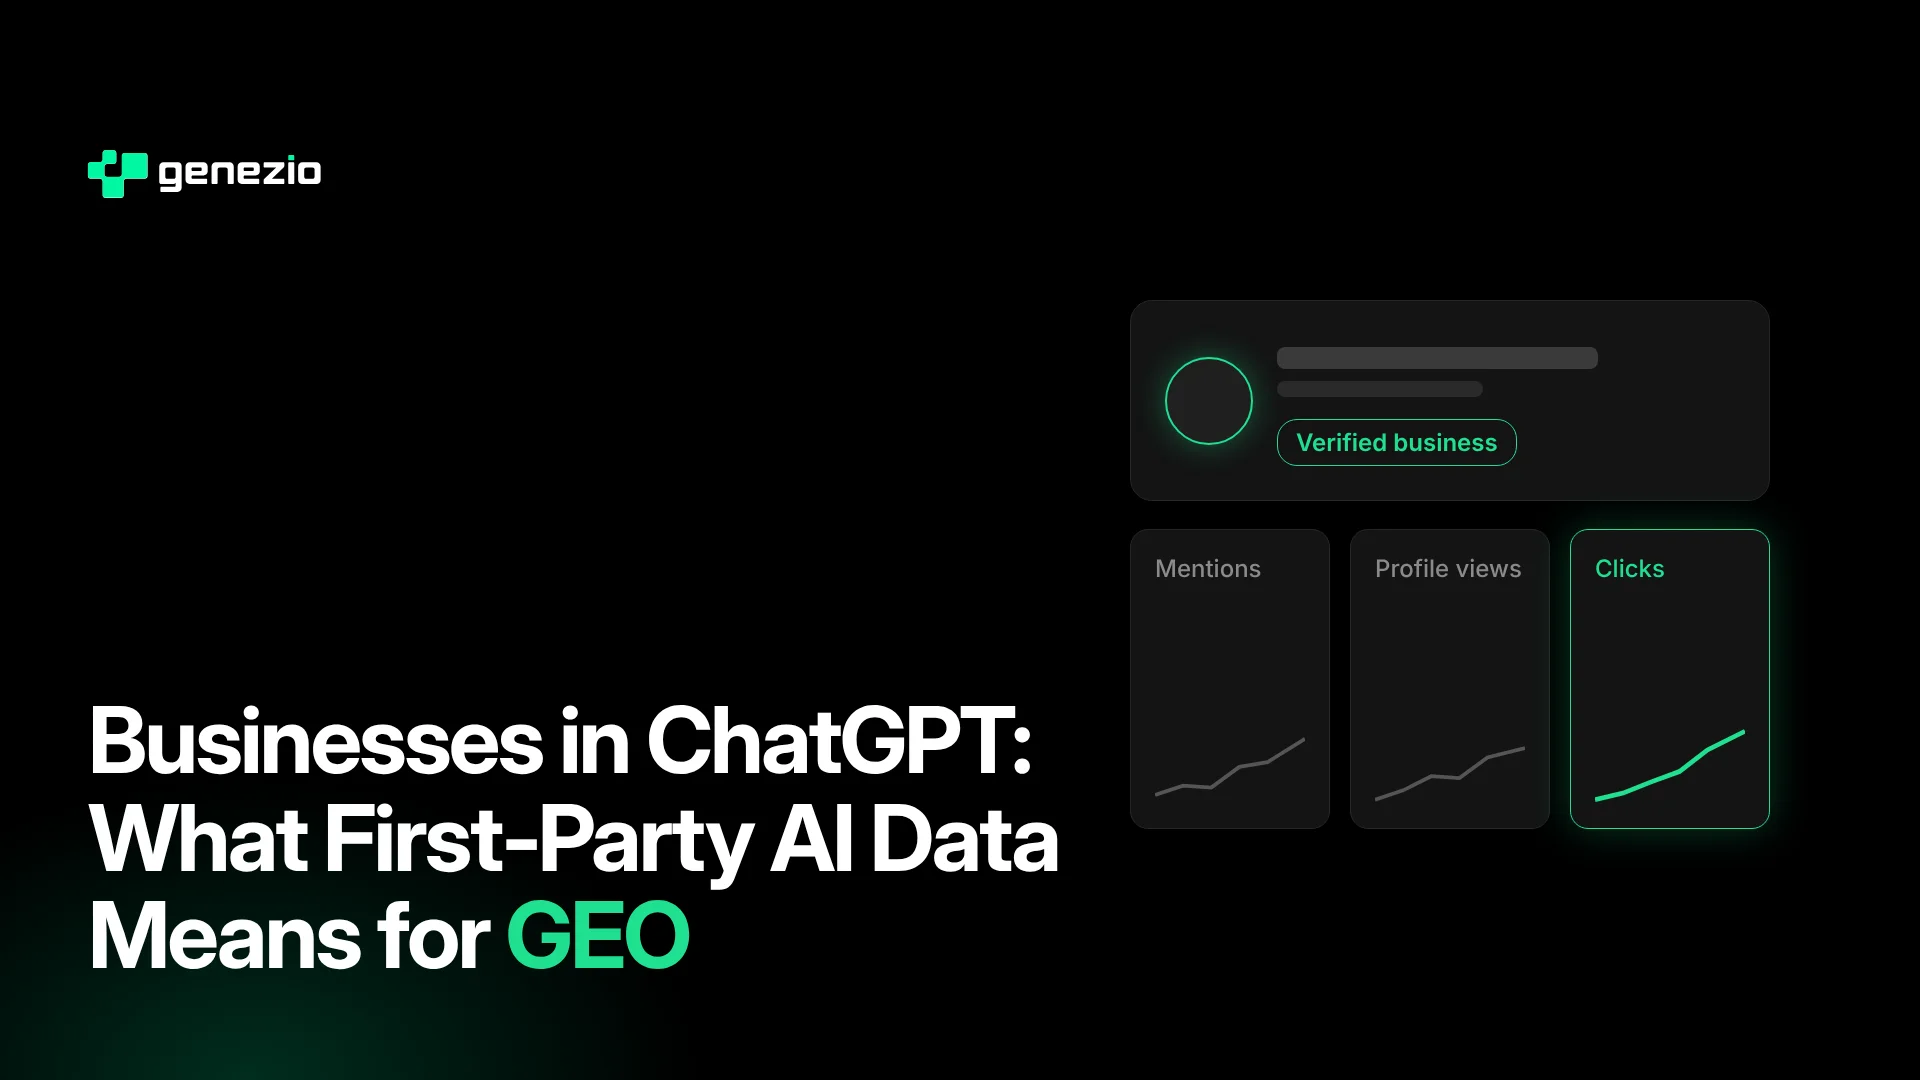
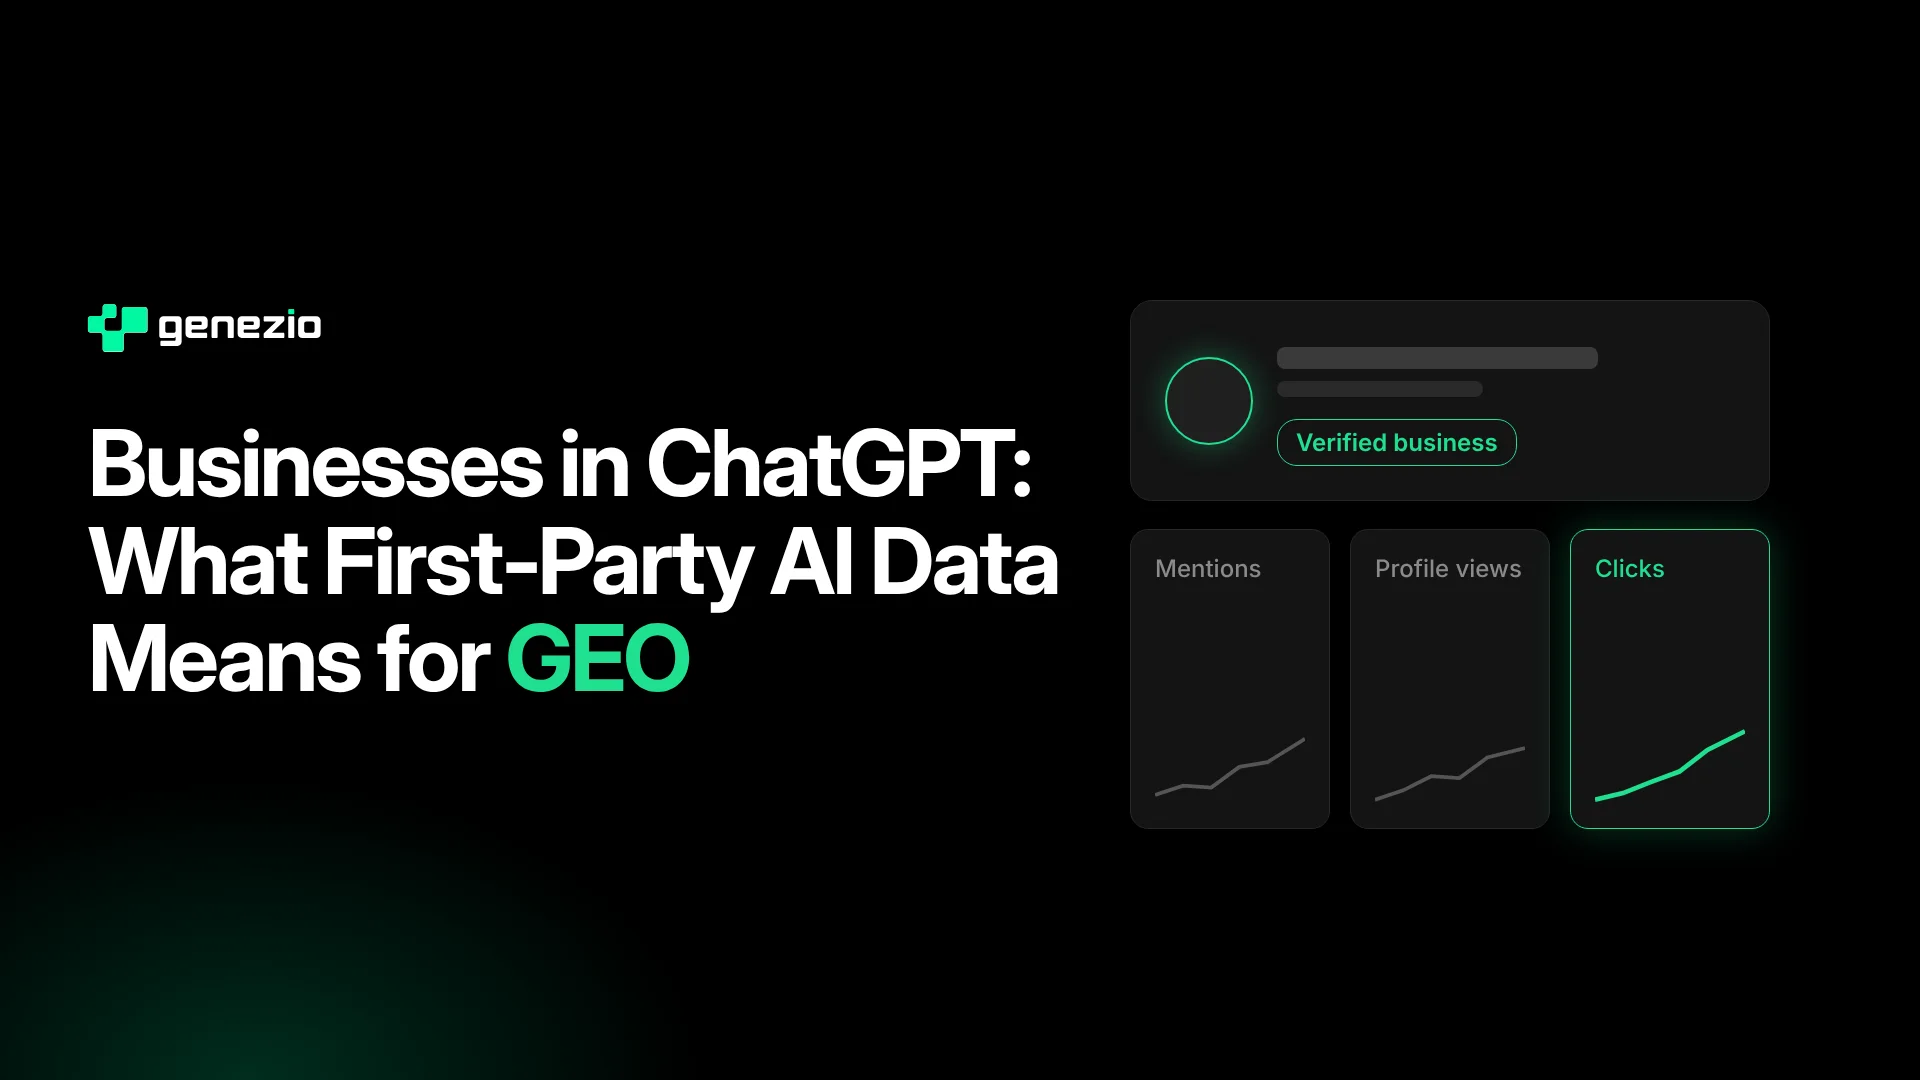
feat(blog): embed the OpenAI video and a tighter cover in the Businesses in ChatGPT post
The blog renders a {{< youtube "URL" >}} shortcode as a player of
youtube-nocookie.com, as it does for {{< tweet >}}.

Claude-Session: https://claude.ai/code/session_012s89EjDfjuH2MBeVpXnyrz

diff --git a/new-landing/src/polymet/pages/blog-post.tsx b/new-landing/src/polymet/pages/blog-post.tsx
@@ -313,13 +313,19 @@ export function BlogPost() {
 
   const effectiveContent = post?.content || clientContent;
 
-  // Preprocess content to replace tweet shortcodes with marker links
+  // Preprocess content to replace tweet and YouTube shortcodes with marker
+  // links, which the renderer of links turns into embeds.
   const contentWithTweets = React.useMemo(() => {
     if (!effectiveContent) return "";
-    return effectiveContent.replace(
-      /{{<\s*tweet\s+"(https?:\/\/twitter\.com\/[^\/]+\/status\/(\d+))"\s*>}}/g,
-      (_, url, id) => `[TWEET_EMBED__${id}](${url})`
-    );
+    return effectiveContent
+      .replace(
+        /{{<\s*tweet\s+"(https?:\/\/twitter\.com\/[^\/]+\/status\/(\d+))"\s*>}}/g,
+        (_, url, id) => `[TWEET_EMBED__${id}](${url})`
+      )
+      .replace(
+        /{{<\s*youtube\s+"(https?:\/\/(?:www\.)?(?:youtube\.com\/watch\?v=|youtu\.be\/)([\w-]{11})[^"]*)"\s*>}}/g,
+        (_, url, id) => `[YOUTUBE_EMBED__${id}](${url})`
+      );
   }, [effectiveContent]);
 
   // Pull a leading hero image out of the body so it renders full-width above
@@ -1028,6 +1034,27 @@ export function BlogPost() {
                       <div className="flex justify-center my-8 not-prose tweet-container">
                         <Tweet id={id} />
                       </div>
+                    );
+                  }
+                  // A YouTube marker: the player, in a block span because
+                  // the link sits inside a paragraph.
+                  if (
+                    typeof children === "string" &&
+                    children.startsWith("YOUTUBE_EMBED__")
+                  ) {
+                    const id = children.replace("YOUTUBE_EMBED__", "");
+                    return (
+                      <span className="block my-8 not-prose aspect-video w-full overflow-hidden rounded-xl border border-white/10">
+                        <iframe
+                          className="h-full w-full"
+                          src={`https://www.youtube-nocookie.com/embed/${id}`}
+                          title="YouTube video"
+                          loading="lazy"
+                          allow="accelerometer; autoplay; clipboard-write; encrypted-media; gyroscope; picture-in-picture; web-share"
+                          referrerPolicy="strict-origin-when-cross-origin"
+                          allowFullScreen
+                        />
+                      </span>
                     );
                   }
 

diff --git a/new-landing/src/posts/businesses-in-chatgpt-first-party-ai-data-geo.md b/new-landing/src/posts/businesses-in-chatgpt-first-party-ai-data-geo.md
@@ -29,6 +29,8 @@ url: /blog/businesses-in-chatgpt-first-party-ai-data-geo/
 
 OpenAI launched Businesses in ChatGPT in beta on November 10. Companies can now claim their profile in ChatGPT and see how often it mentions them, how many people view that profile, and how many click through to their website.
 
+{{< youtube "https://www.youtube.com/watch?v=Z9k5oI3Paoc" >}}
+
 At Genezio, we see this as a big step forward for GEO. When the most-used answer engine builds a home for businesses inside its own product, it shows where discovery is heading. More and more buying journeys will start in a conversation with an AI, and many will end there too.
 
 It also brings a valuable new signal into GEO. Genezio measures how AI models recommend brands by simulating real customer conversations at scale. ChatGPT now adds first-party numbers from real users. Used together, they give brands a fuller picture than either one alone.
